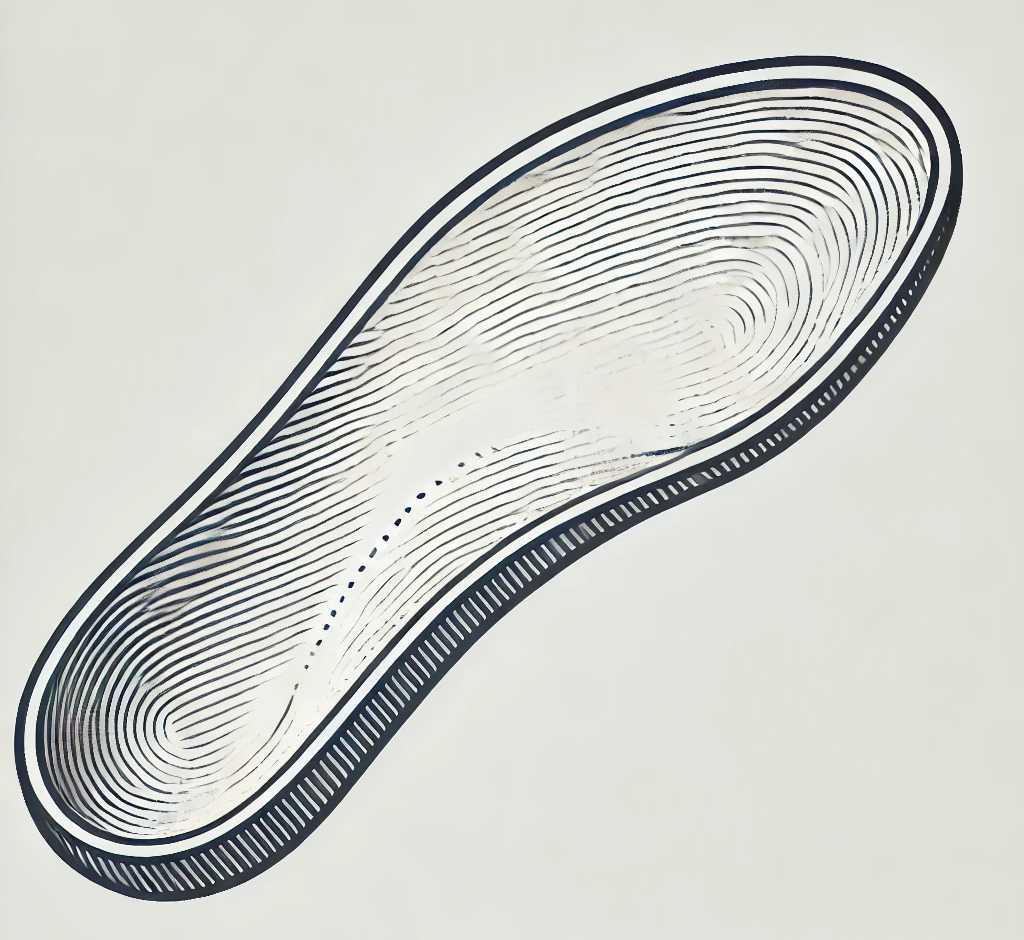
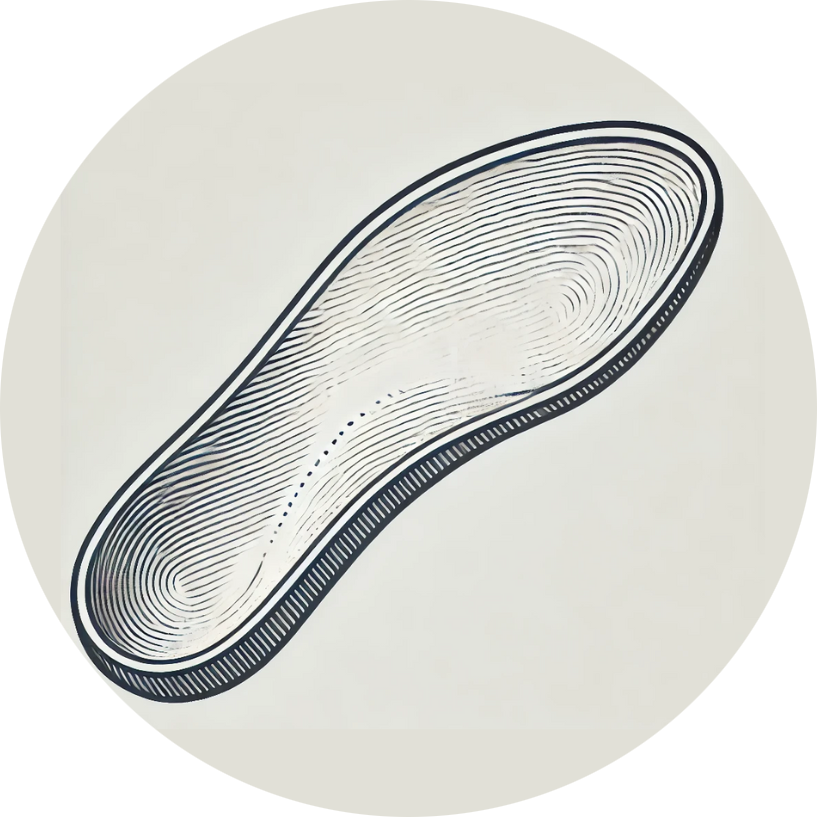
chore: adjust iamge

diff --git a/README.md b/README.md
@@ -1,5 +1,5 @@
 <div align="center">
-    <img src="img/pyinsole-img.ico" style="width:100px;height:100px;border-radius:50%;" alt="Circular Image">
+    <img src="img/pyinsole-img.png" style="width:100px;height:100px;" alt="Circular Image">
 </div>
 <br>
 <p align="center">
